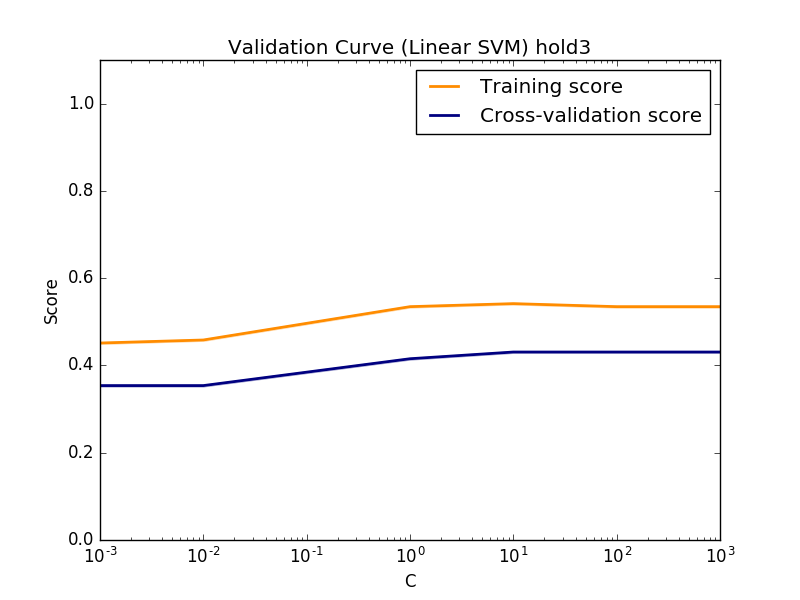
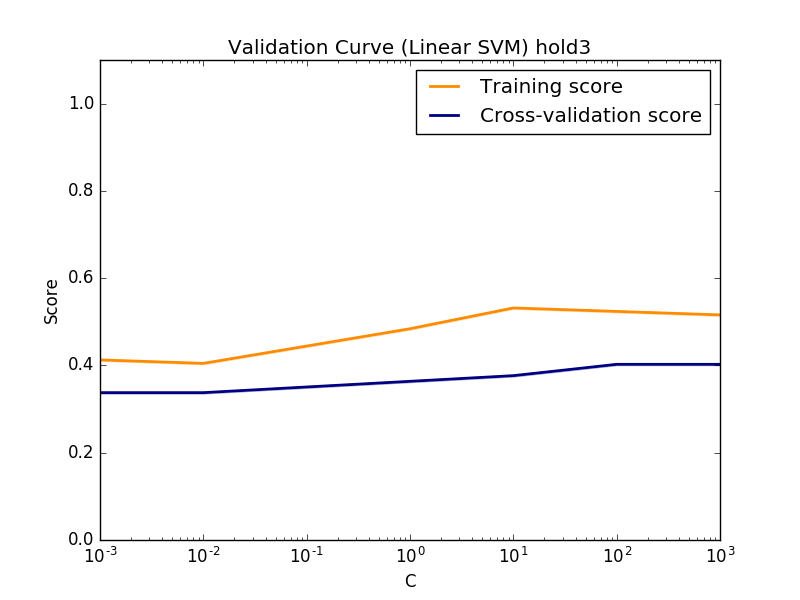
Fixed train and val accuracy issue

Changed region(s): [[0.375, 0.48, 0.9062, 0.63], [0.125, 0.54, 0.5938, 0.66]]

diff --git a/src/classify.py b/src/classify.py
@@ -154,30 +154,44 @@ def get_values(training_set,validation_set,test_set, exp_no, val='hold'):
     
     
     grid_clf.fit(data,labels)
+    validation_accuracy = grid_clf.best_score_
+    print "validation_accuracy:", validation_accuracy
     c = grid_clf.best_estimator_.C
     print "C:",c
 
     #train accuracy
-    #best_clf = svm.SVC(C=c,decision_function_shape='ovr',kernel='linear')
+    
     best_clf = svm.LinearSVC(C=c, dual=False)
     best_clf.fit(data,labels)
+    #best_clf.fit(training_data, training_labels)
     training_accuracy = best_clf.score(data,labels)
-   # print "training accuracy:", training_accuracy
+    print "training accuracy:", training_accuracy
 
     #validation accuracy
 
-    validation_accuracy = best_clf.score(validation_data,validation_labels)
+    #validation_accuracy = best_clf.score(validation_data,validation_labels)
     #print "validation accuracy:", validation_accuracy
 
     #test accuracy
-
+    #best_clf.fit(data, labels)
     testing_accuracy = best_clf.score(testing_data,testing_labels)
     print "testing accuracy:", testing_accuracy
+    
+    return (training_accuracy, validation_accuracy, testing_accuracy)
 
-    return testing_accuracy
+def plot_val_test(scores, title):
+    val_scores = [score[1] for score in scores]
+    test_scores = [score[2] for score in scores]
+    fig = plt.figure()
+    plt.title = title
+    
+    
+    
+
 
 def model(exp):
-    temp = []
+    hold_out_scores = []
+    fold_scores = []
     if exp == "Exp 1":
         df = fuse_features()
     elif exp == "Exp 2 a":
@@ -202,12 +216,15 @@ def model(exp):
         test_set = pd.concat([test_features, test_labels], axis=1)
 
         print "\nHold-out:"
-        temp.append(get_values(training_set.values, validaition_set.values, test_set.values, str(i+1), val='hold' ))
+        hold_out_scores.append(get_values(training_set.values, validaition_set.values, test_set.values, 
+                                str(i+1), val='hold' ))
         if exp == "Exp 1":
             print "\n3-Fold:"
-            get_values(training_set.values, validaition_set.values, test_set.values, str(i+1), val='3-fold')
+            fold_scores.append(get_values(training_set.values, validaition_set.values, test_set.values,
+                             str(i+1), val='3-fold'))
 
-    return temp
+    plot_val_test(hold_out_scores, "Hold out scores")
+    return hold_out_scores
 
 
 def draw_multi_plots(acou_accuracy_list,visual_accuracy_list):
